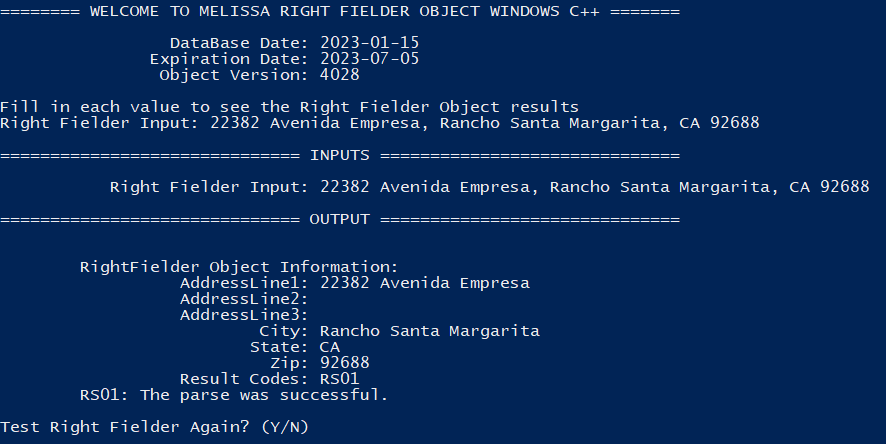
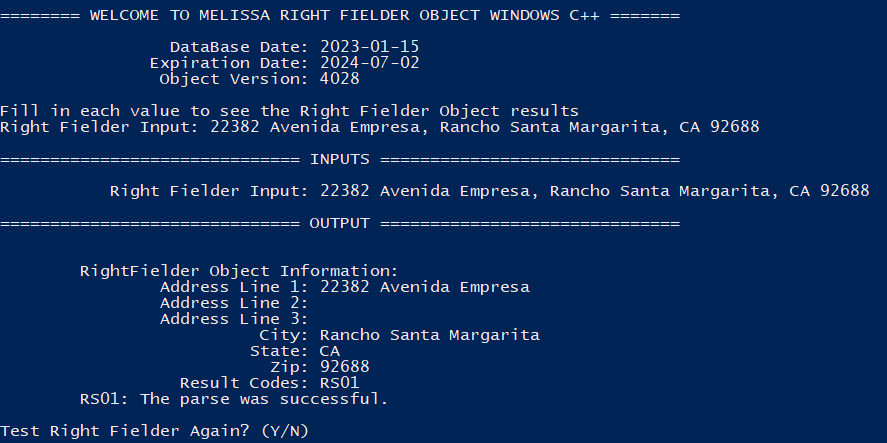
Tested successfully using Melissa data files for 2023.07

Changed region(s): [[0.0, 0.0, 1.0, 0.5282], [0.0914, 0.5869, 0.6095, 0.9097], [0.0, 0.9391, 0.3657, 0.9977]]

diff --git a/MelissaRightFielderObjectWindowsCpp/Main.cpp b/MelissaRightFielderObjectWindowsCpp/Main.cpp
@@ -92,9 +92,9 @@ void RunAsConsole(string license, string testInput, string dataPath)
 		// Print output
 		cout << "\n============================== OUTPUT ==============================\n"                       << endl;
 		cout << "\n\tRightFielder Object Information:"                                                           << endl;
-		cout << "\t          AddressLine1: " + string(rightFielderObject->mdRightFielderObj->GetAddress())       << endl;
-		cout << "\t          AddressLine2: " + string(rightFielderObject->mdRightFielderObj->GetAddress2())      << endl;
-		cout << "\t          AddressLine3: " + string(rightFielderObject->mdRightFielderObj->GetAddress3())      << endl;
+		cout << "\t        Address Line 1: " + string(rightFielderObject->mdRightFielderObj->GetAddress())       << endl;
+		cout << "\t        Address Line 2: " + string(rightFielderObject->mdRightFielderObj->GetAddress2())      << endl;
+		cout << "\t        Address Line 3: " + string(rightFielderObject->mdRightFielderObj->GetAddress3())      << endl;
 		cout << "\t                  City: " + string(rightFielderObject->mdRightFielderObj->GetCity())          << endl;
 		cout << "\t                 State: " + string(rightFielderObject->mdRightFielderObj->GetState())         << endl;
 		cout << "\t                   Zip: " + string(rightFielderObject->mdRightFielderObj->GetPostalCode())    << endl;

diff --git a/README.md b/README.md
@@ -13,17 +13,17 @@ The console will ask the user for:
 
 And return 
 
-- AddressLine1
-- AddressLine2
+- Address Line 1
+- Address Line 2
+- Address Line 3
 - City
 - State 
 - Zip
-- ResultCodes
+- Result Codes
 
 ## Tested Environments
-- Windows 64-bit Microsoft Visual C++ 14.34
-- Powershell 5.1
-- Melissa data files for 2023-06
+- Windows 10 64-bit Microsoft Visual C++ 14.34, Powershell 5.1
+- Melissa data files for 2023-07
 - Nmake 14.34
 - Visual Studio 2022 Developer Command Prompt v17.4.2 64-bit
 
@@ -46,7 +46,7 @@ This is the c++ code of the Melissa Object.
 These instructions will get you a copy of the project up and running on your local machine for development and testing purposes.
 
 #### Visual Studio Developer Command Prompt
-It is important to note that you must be able to initialize the Visual Studio Developer Command Prompt environment for `x86_x64` in order to test the Melissa Phone Object. The Visual Studio Developer Command Prompt should already be downloaded if you have Microsoft Visual Studio installed. 
+It is important to note that you must be able to initialize the Visual Studio Developer Command Prompt environment for `x86_x64` in order to test the Melissa Right Fielder Object. The Visual Studio Developer Command Prompt should already be downloaded if you have Microsoft Visual Studio installed. 
 
 To check if you are able to intialize the Visual Studio Developer Command Prompt for `x86_x64`, you can open the start menu and search for `x86_x64 Cross Tools Command Prompt for VS 2022`. If this program exists, then you may continue to the next steps.
 
@@ -62,7 +62,7 @@ The console will then prompt you with the following warning shown in the image b
 
 #### Download this project
 ```
-$ git clone https://github.com/MelissaData/RightFielderObject-Cpp.git
+$ git clone https://github.com/MelissaData/RightFielderObject-Cpp
 $ cd RightFielderObject-Cpp
 ```
 
@@ -132,7 +132,6 @@ Troubleshooting for errors found while running your program.
 | ErrorLicenseExpired   | Expired license string. Please contact technical support below. |
 
 ## Contact Us
-
 For free technical support, please call us at 800-MELISSA ext. 4 (800-635-4772 ext. 4) or email us at tech@melissa.com.
 
 To purchase this product, contact the Melissa sales department at 800-MELISSA ext. 3 (800-635-4772 ext. 3).
